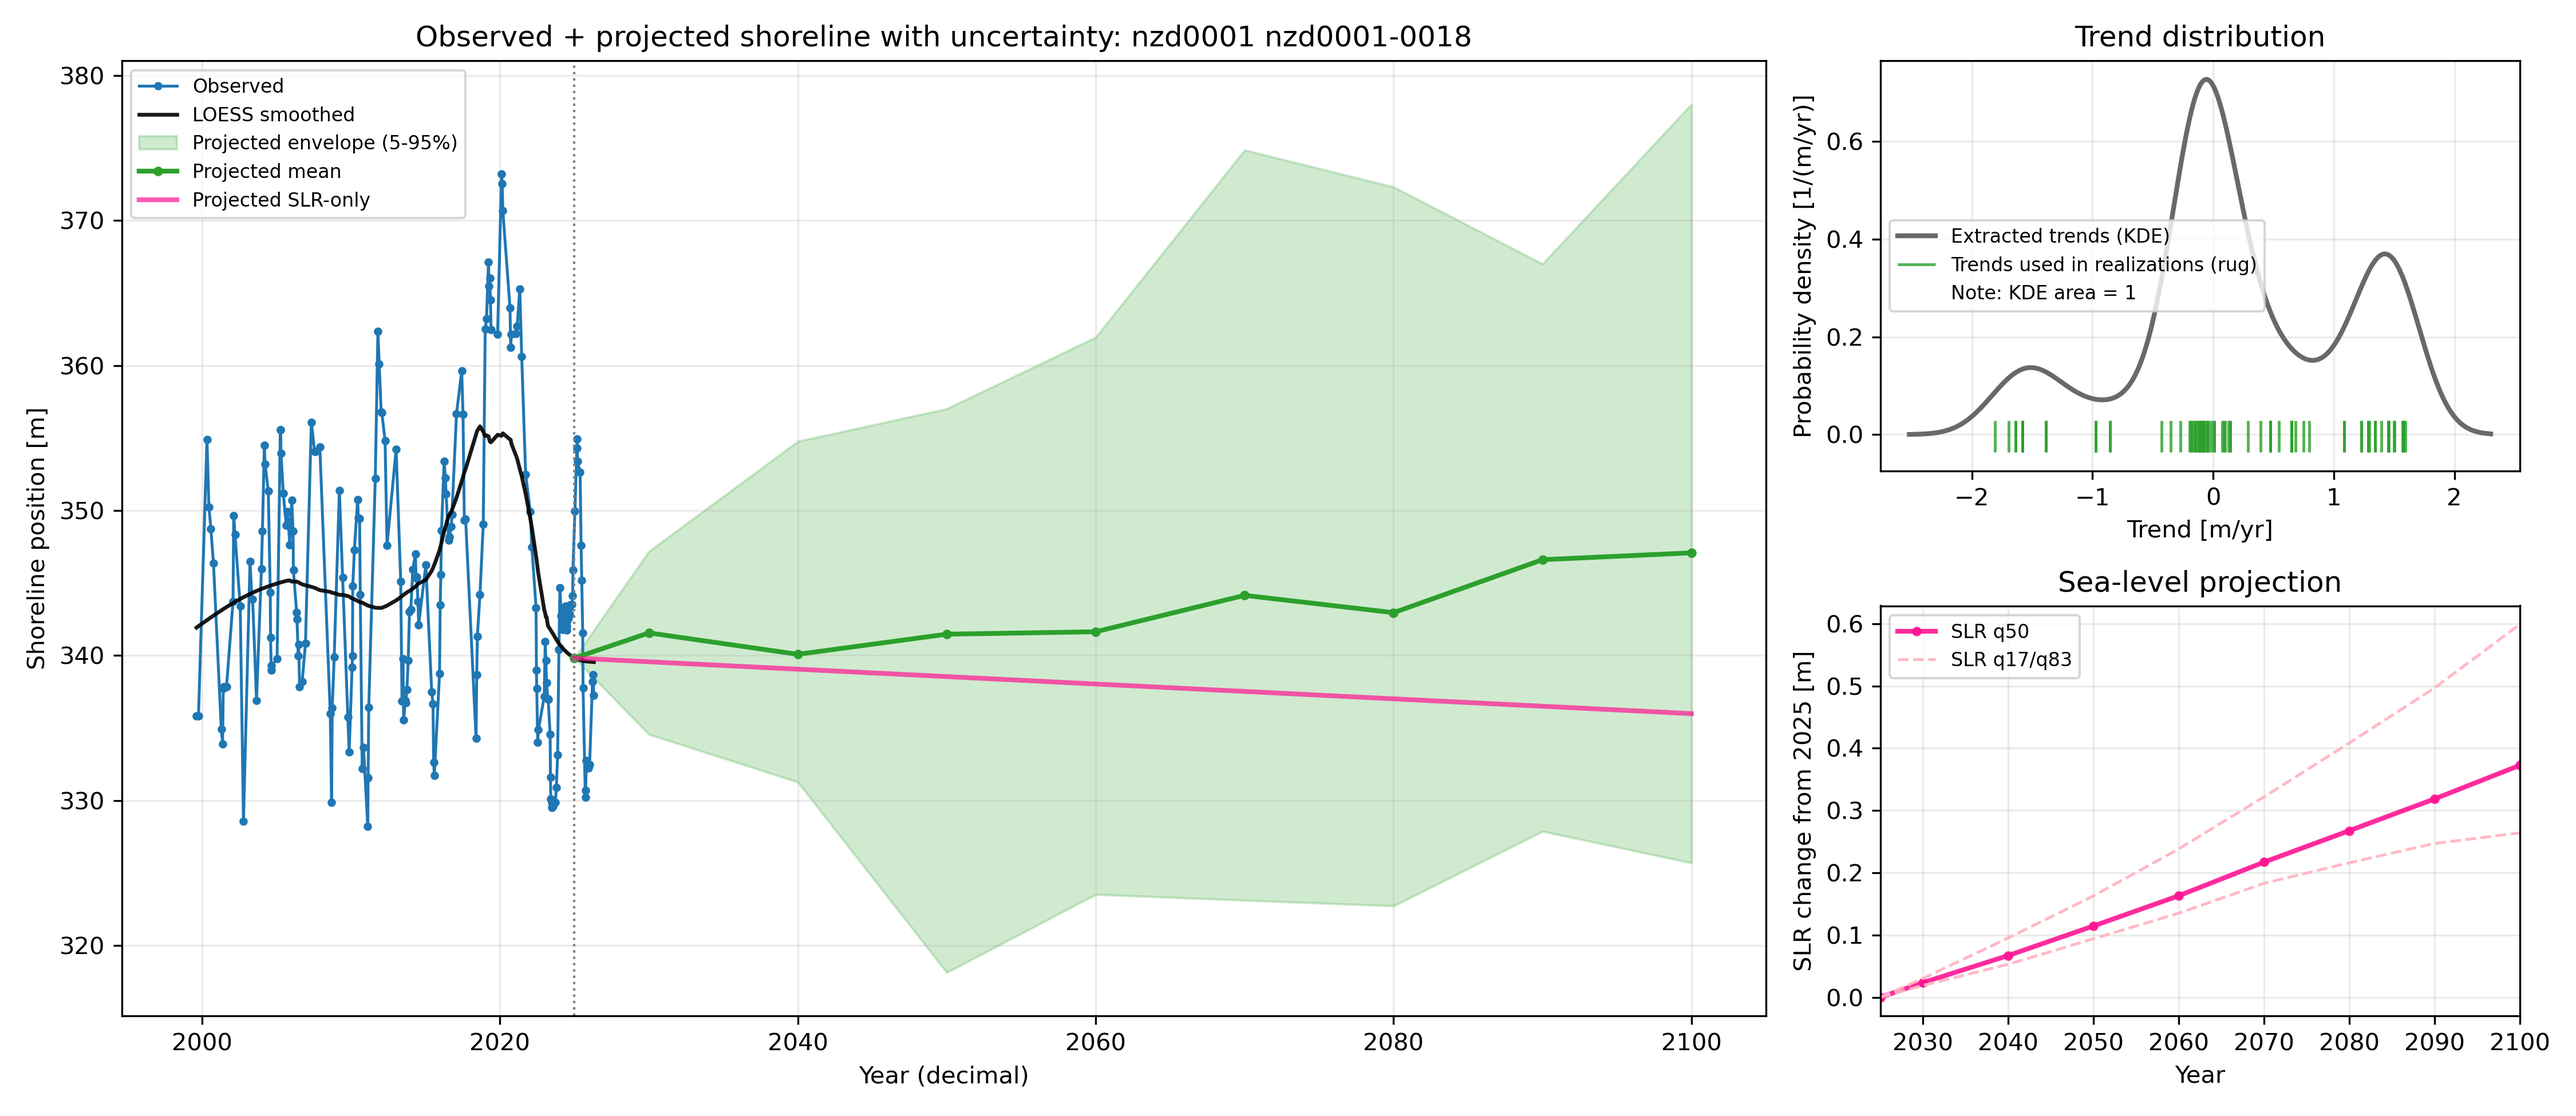
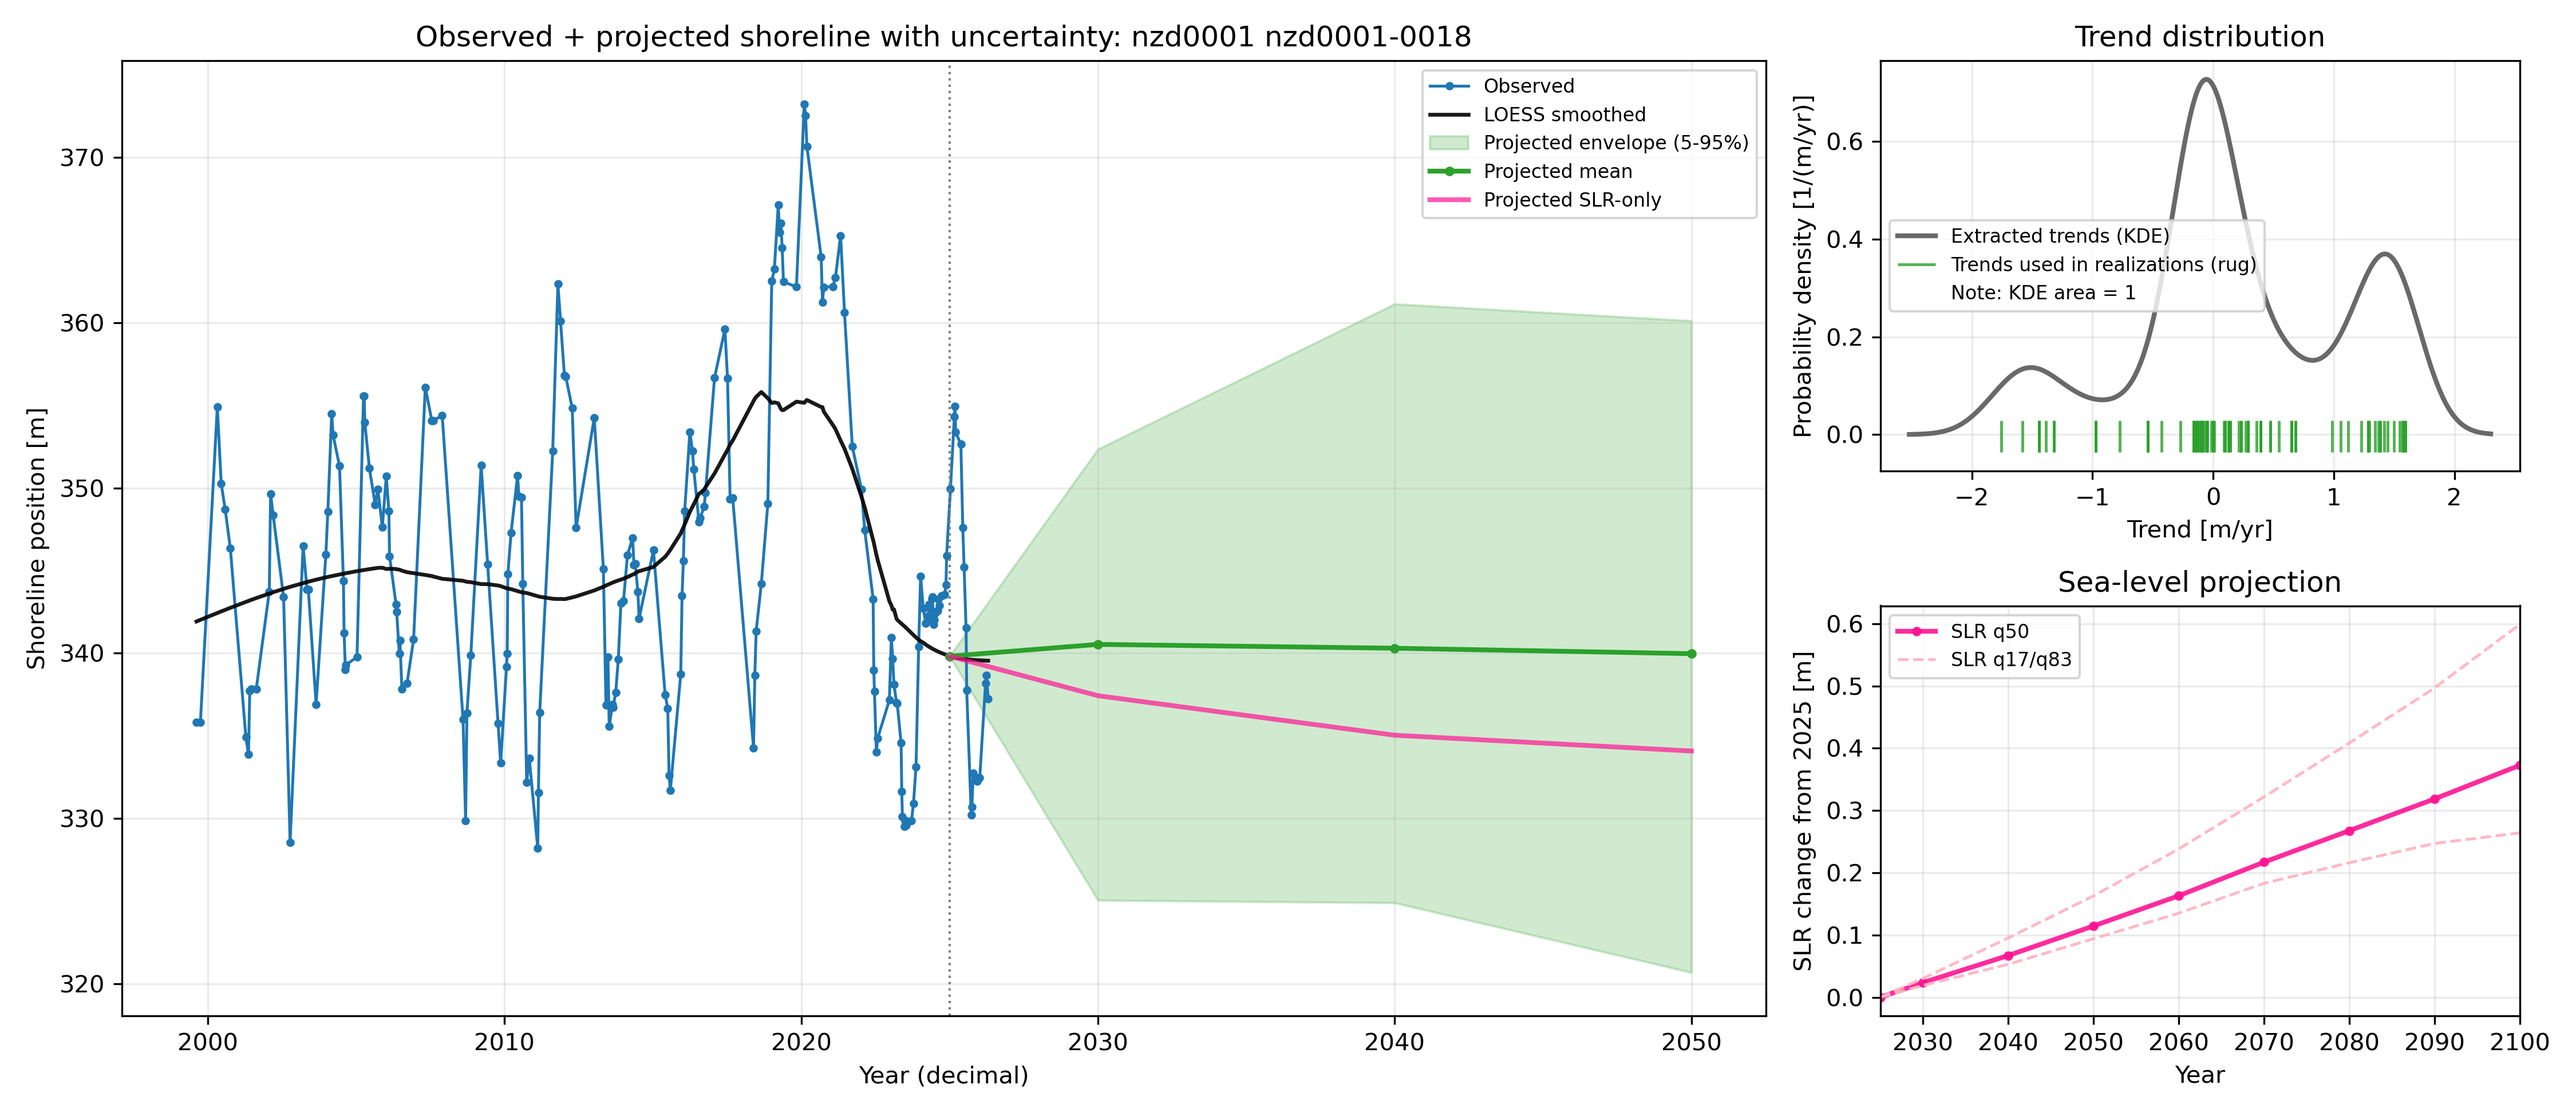
Projection horizon: 2050

diff --git a/trend_uncertainty.py b/trend_uncertainty.py
@@ -33,7 +33,7 @@ print(f"{len(nzd_sites)} NZD sites found")
 # Define random seed for reproducibility
 seed = 42 
 single_preview_random_state = seed
-n_mc_realizations_per_transect = 10
+n_mc_realizations_per_transect = 50
 loess_window = 10  # years, used for both LOESS smoothing 
 #and block bootstrap window to match the timescale 
 # of variability captured by the smoothed trend.
@@ -264,7 +264,7 @@ def mc_shoreline_change(
     delta_S_q17,
     delta_S_q50,
     delta_S_q83,
-    dt=75,                      # 2025 as baseline year, projections to 2100
+    dt=25,                      # 2025 as baseline year, projections to 2100
     n=200_000,
     return_delta_s_samples=True,
     return_r_segment_samples=True,
@@ -345,25 +345,37 @@ def mc_shoreline_change(
     #  and is scaled by the sampled tan_beta per realization.
     bases = -(c / sampled_tan_beta) * sampled_delta_s         
 
-    # Split dt into segments; if there is a remainder, place it first so the
-    # following segment boundaries align to round years (e.g., 2030, 2040, ...).
-    n_full_segments = dt // segment_years
+    # Split dt into block-year segments; each gets its own independently sampled r.
+    # e.g. dt=75 => 15 segments of block_years each.
+    n_segments = dt // segment_years
     remainder = dt % segment_years
-    seg_durations = []
+
+    # Pro-rate the SLR base term evenly across segments
+    bases_per_seg = bases / n_segments                         # (n,)
+
+    # Sample an independent r per simulation per segment: shape (n, n_segments)
+    sampled_r_segs = rng.choice(r_samples, size=(n, n_segments))
+    sampled_r_all = sampled_r_segs.copy()
+
+    # dy has shape (n, n_segments): change during each block-year simulation
+    dy = (bases_per_seg[:, np.newaxis] 
+          + sampled_r_segs * segment_years)
+
+    # Handle any remaining years if dt is not divisible by segment_years.
     if remainder > 0:
-        seg_durations.append(float(remainder))
-    seg_durations.extend([float(segment_years)] * int(n_full_segments))
-    seg_durations = np.asarray(seg_durations, dtype=float)
+        # Sample an additional r for the remaining segment, shape (n,)
+        sampled_r_rem = rng.choice(r_samples, size=n)
+        sampled_r_all = np.concatenate([sampled_r_all, sampled_r_rem[:, np.newaxis]], axis=1)
+        # Pro-rate the SLR base term for the remaining years 
+        # and add the trend component for the shorter segment.
+        dy_rem = (bases * remainder / dt) + sampled_r_rem * remainder
+        dy = np.concatenate([dy, dy_rem[:, np.newaxis]], axis=1)
 
-    # One independent trend sample per realization per segment.
-    sampled_r_all = rng.choice(r_samples, size=(n, seg_durations.size))
-
-    # SLR-only contribution is apportioned by segment duration so the per-segment
-    # terms sum exactly to the total sampled SLR base term for each realization.
-    slr_dy = bases[:, np.newaxis] * (seg_durations[np.newaxis, :] / float(dt))
-
-    # Segment-wise shoreline change combines SLR-only and trend components.
-    dy = slr_dy + sampled_r_all * seg_durations[np.newaxis, :]
+    # SLR-only shoreline change per segment, shape-matched with dy.
+    slr_dy = np.repeat(bases_per_seg[:, np.newaxis], n_segments, axis=1)
+    if remainder > 0:
+        slr_rem = bases * remainder / dt
+        slr_dy = np.concatenate([slr_dy, slr_rem[:, np.newaxis]], axis=1)
 
     # Total 75-year change used for summary statistics
     dy_total = dy.sum(axis=1)                                  # (n,)
@@ -478,8 +490,8 @@ debug_slr_histograms = True
 debug_variance_plots = True
 
 # nzd_sites_trial = nzd_sites[0:5]
-nzd_sites_trial = ["nzd0001"]
-# nzd_sites_trial = ["nzd0161"]
+# nzd_sites_trial = ["nzd0001"]
+nzd_sites_trial = ["nzd0138"]
 
 #Try only 2 sites first
 for site_id in nzd_sites_trial:
@@ -498,7 +510,7 @@ for site_id in nzd_sites_trial:
         if c.startswith(site_id + "-")
     ]
     
-    transect_trials=transect_cols[18:19] #Try only 3 transects first
+    transect_trials=transect_cols[3:4] #Try only 3 transects first
 
     for transect_id in transect_trials:
     # for transect_id in transect_cols:
